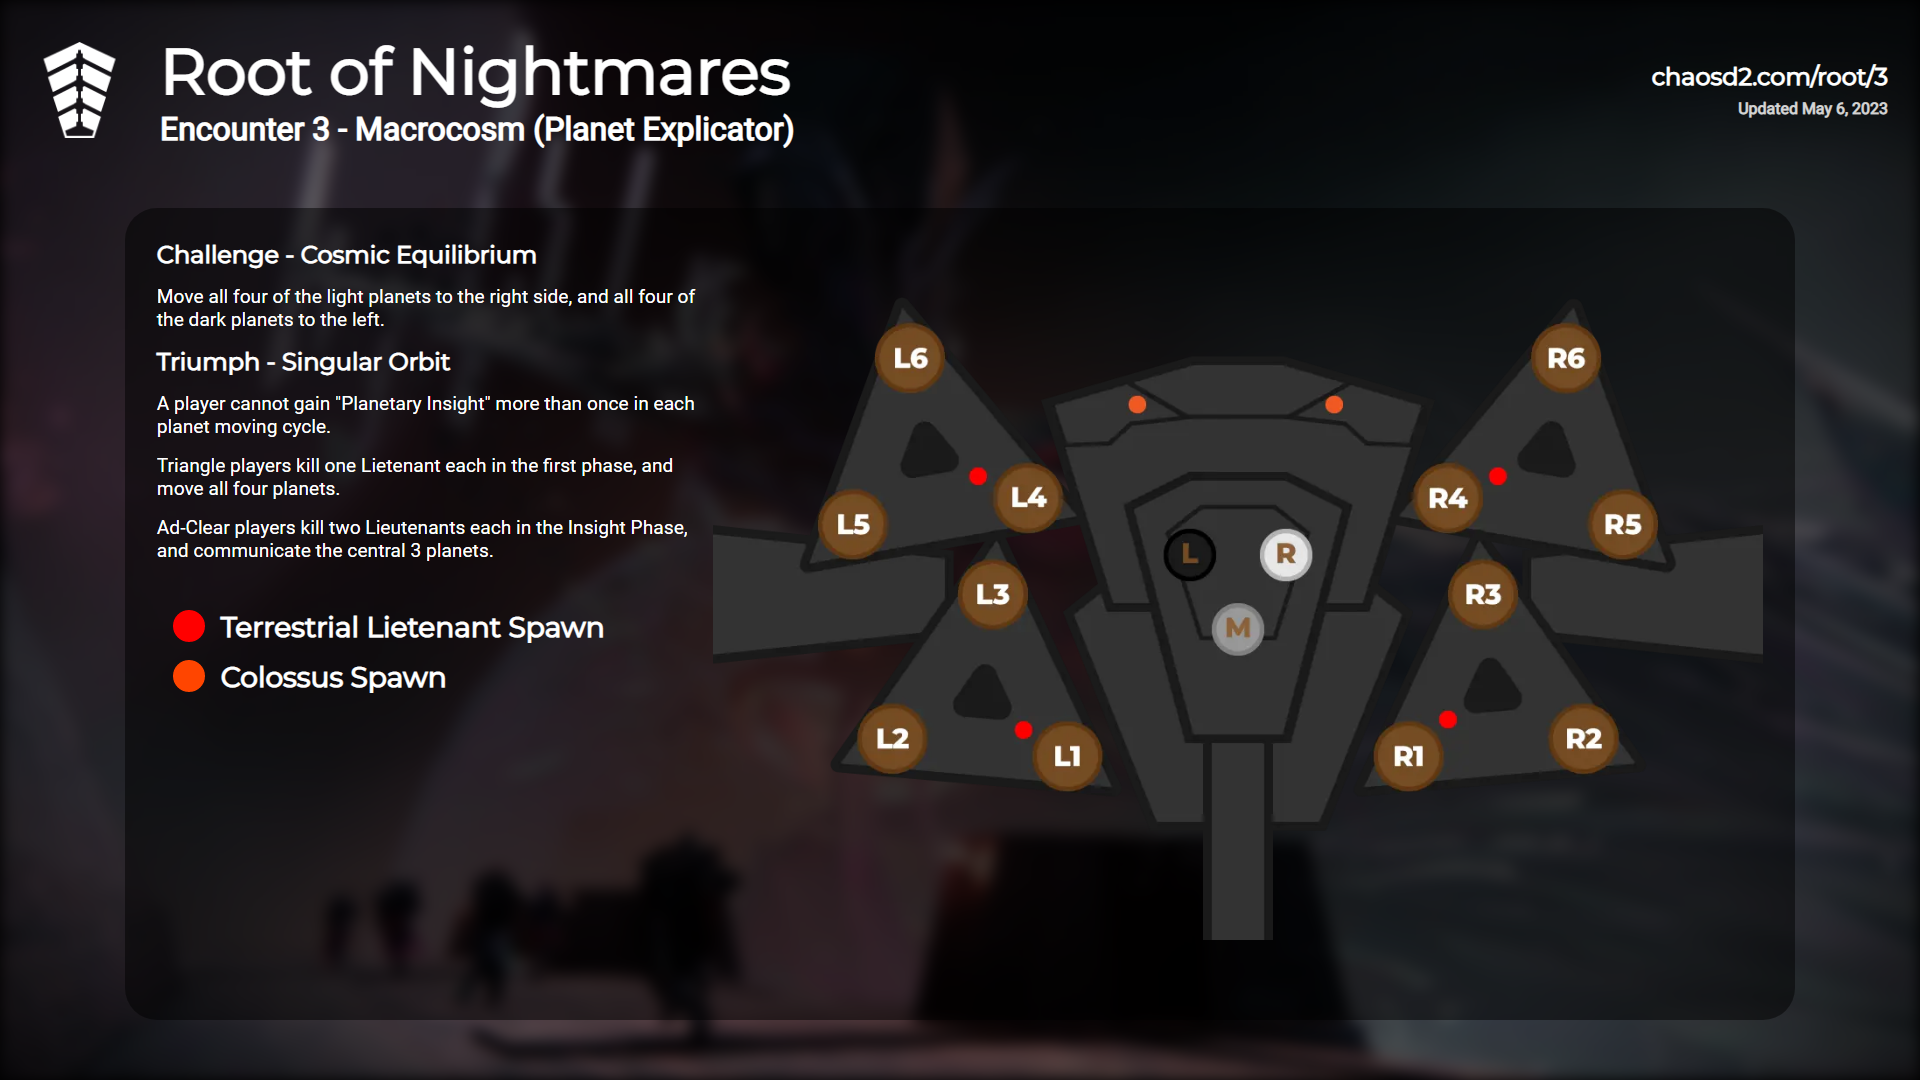
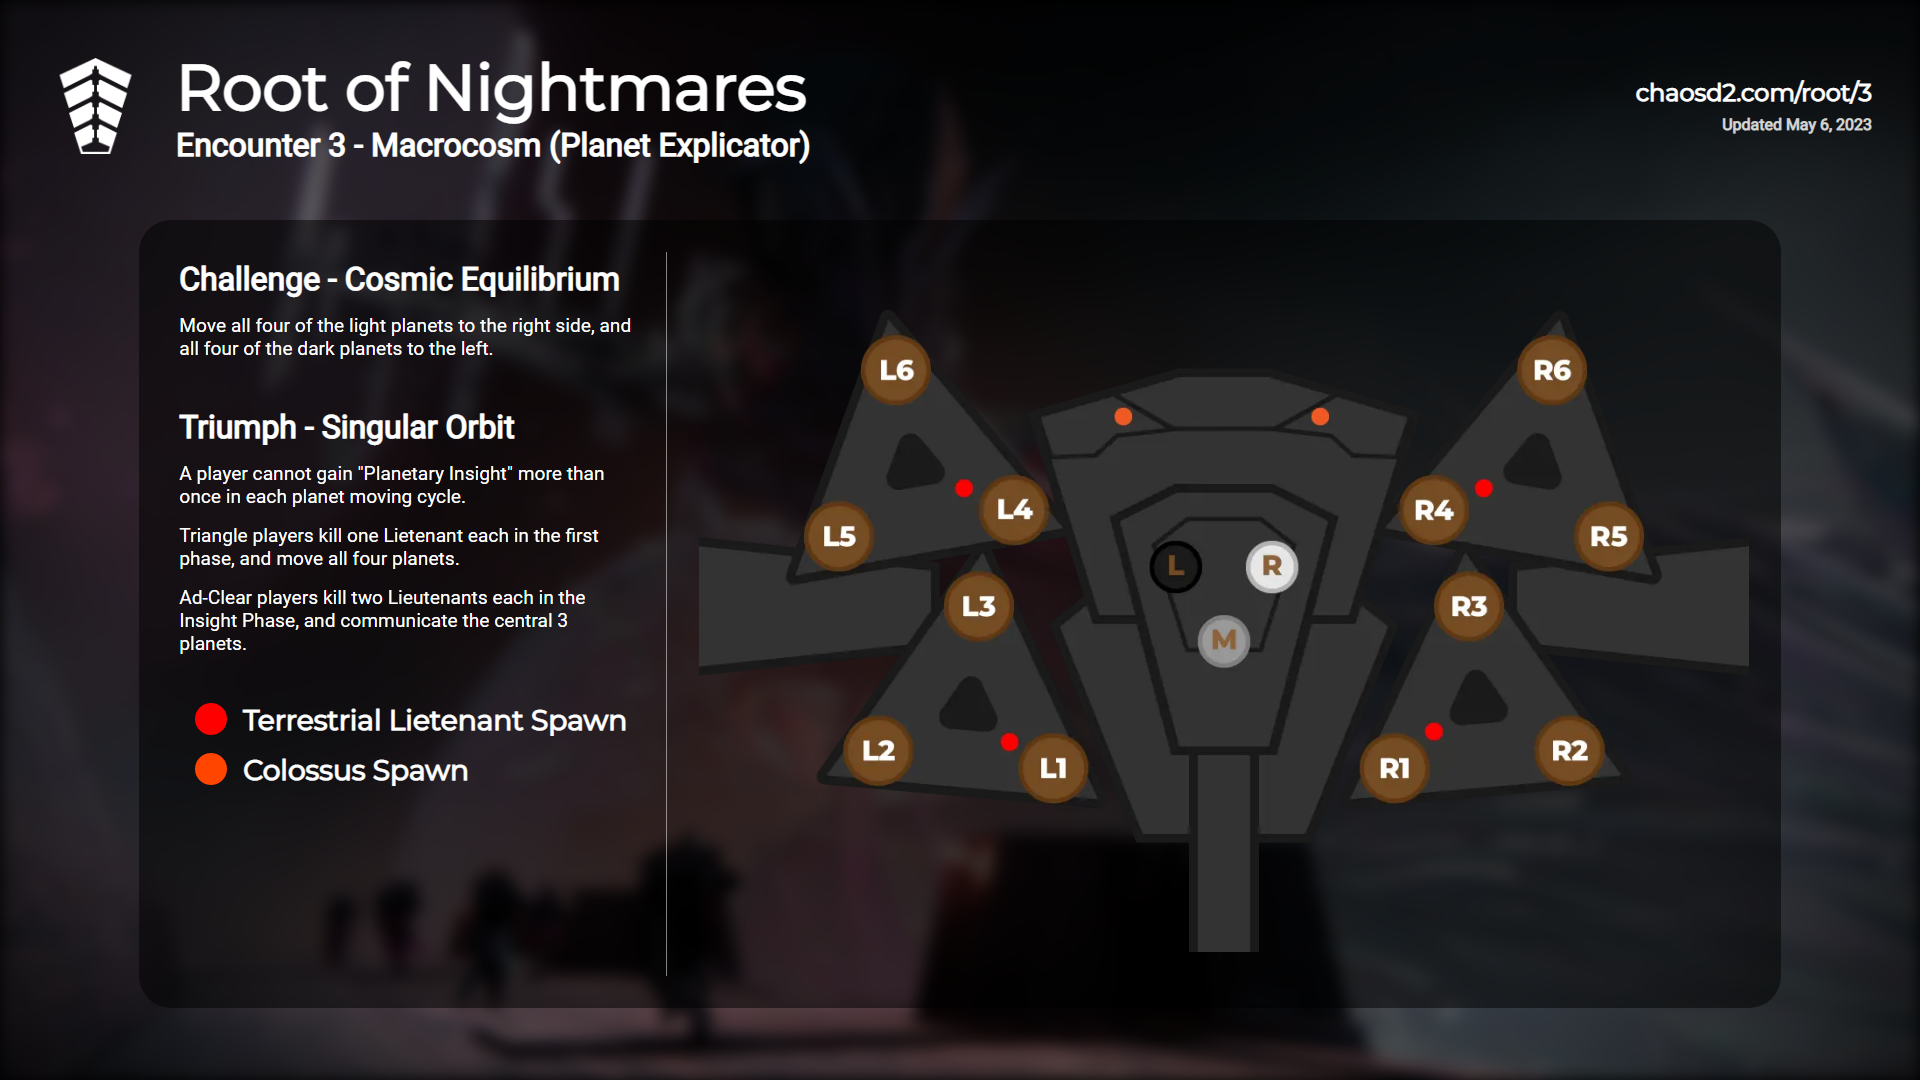
Improved Root/3

diff --git a/app/image_sources/raids/root_of_nightmares/3/styles.module.css b/app/image_sources/raids/root_of_nightmares/3/styles.module.css
@@ -7,7 +7,7 @@
 .main {
     width: 100%;
     height: 100%;
-    padding: 2rem;
+    padding: 3rem;
     display: flex;
     flex-direction: column;
 }
@@ -64,10 +64,21 @@
     background: orangered;
 }
 
-.text h1 {
+.text {
+    padding: 0.5rem 2rem 0.5rem 0.5rem;
+    margin-right: 2rem;
+    border-right: rgba(255, 255, 255, 0.5) solid 1px;
+}
+
+.text h2 {
     font-size: 2rem;
     font-family: Roboto, sans-serif;
-    margin-bottom: 2rem;
+}
+
+.challenges {
+    display: flex;
+    flex-direction: column;
+    gap: 2rem;
 }
 
 .text p {
